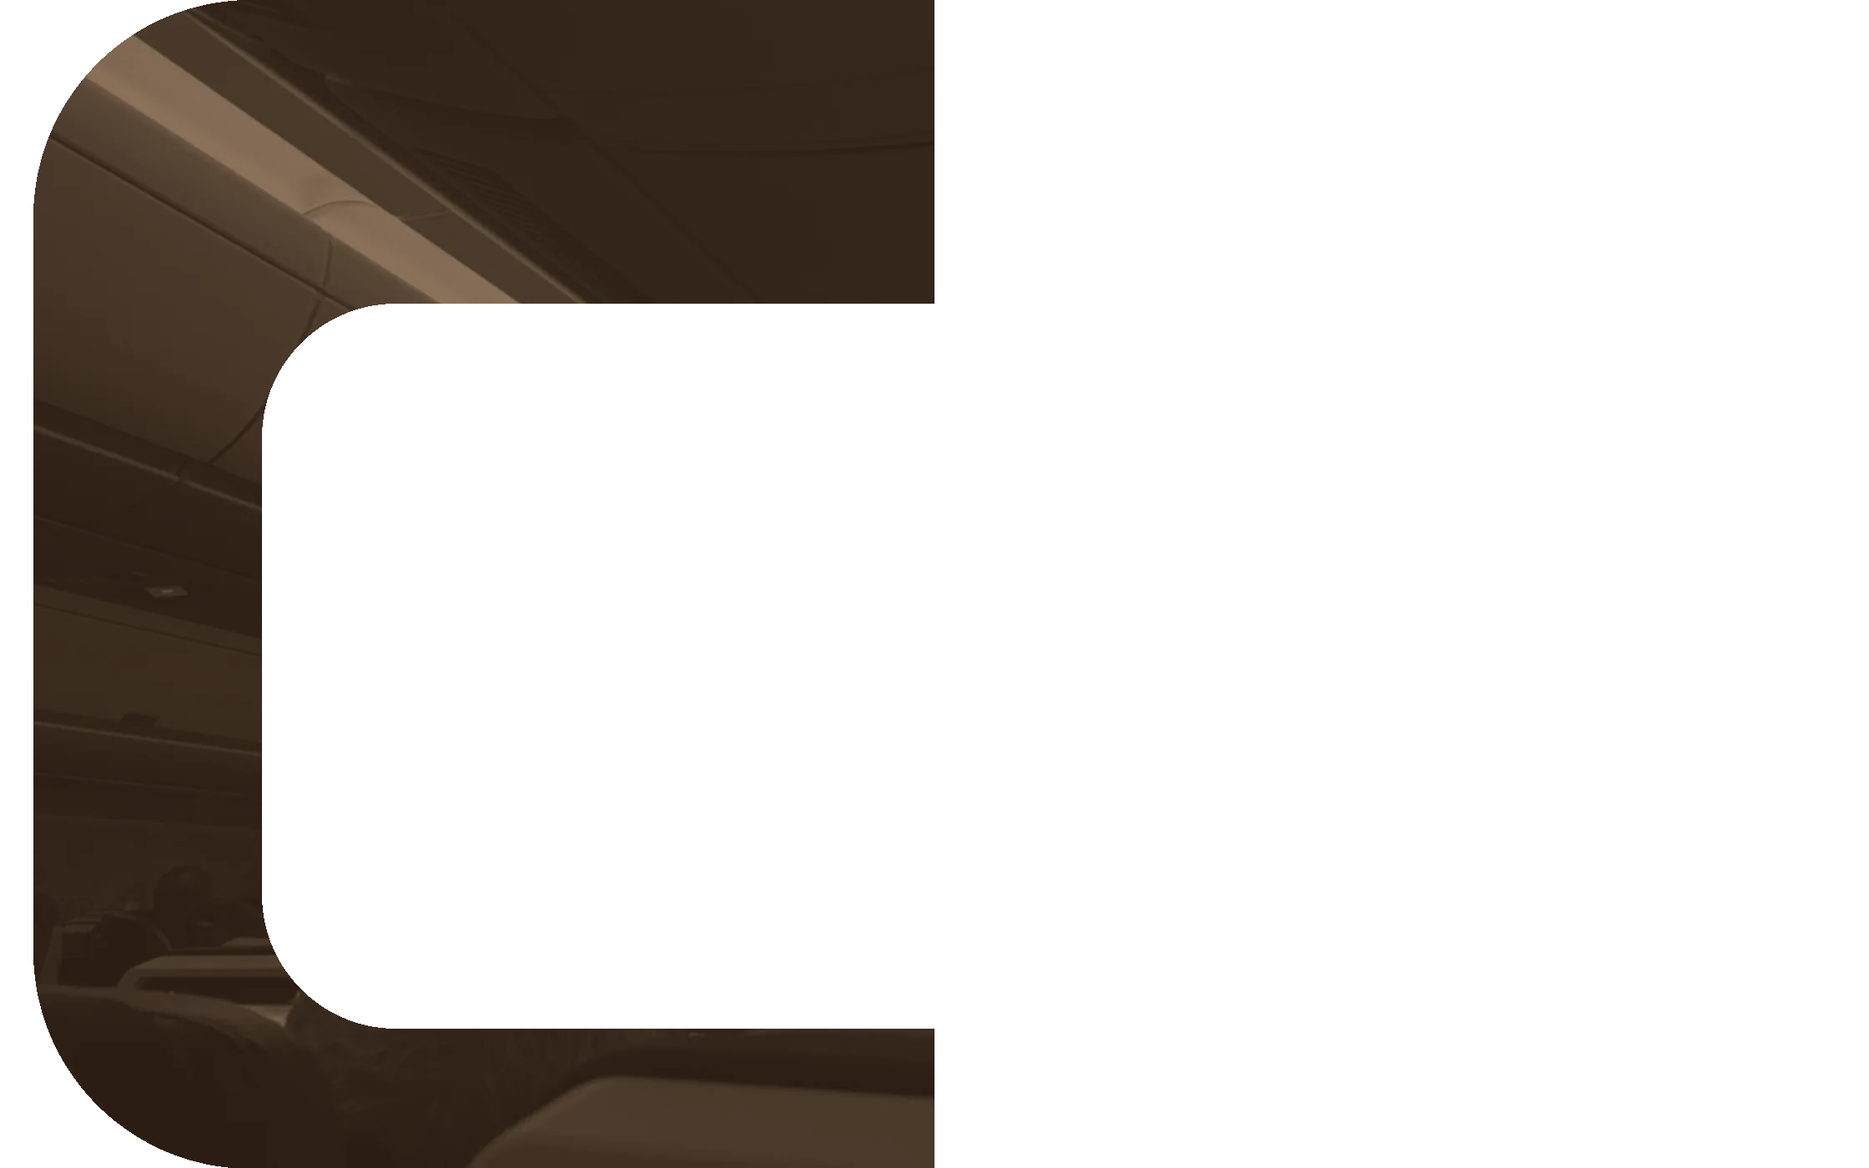
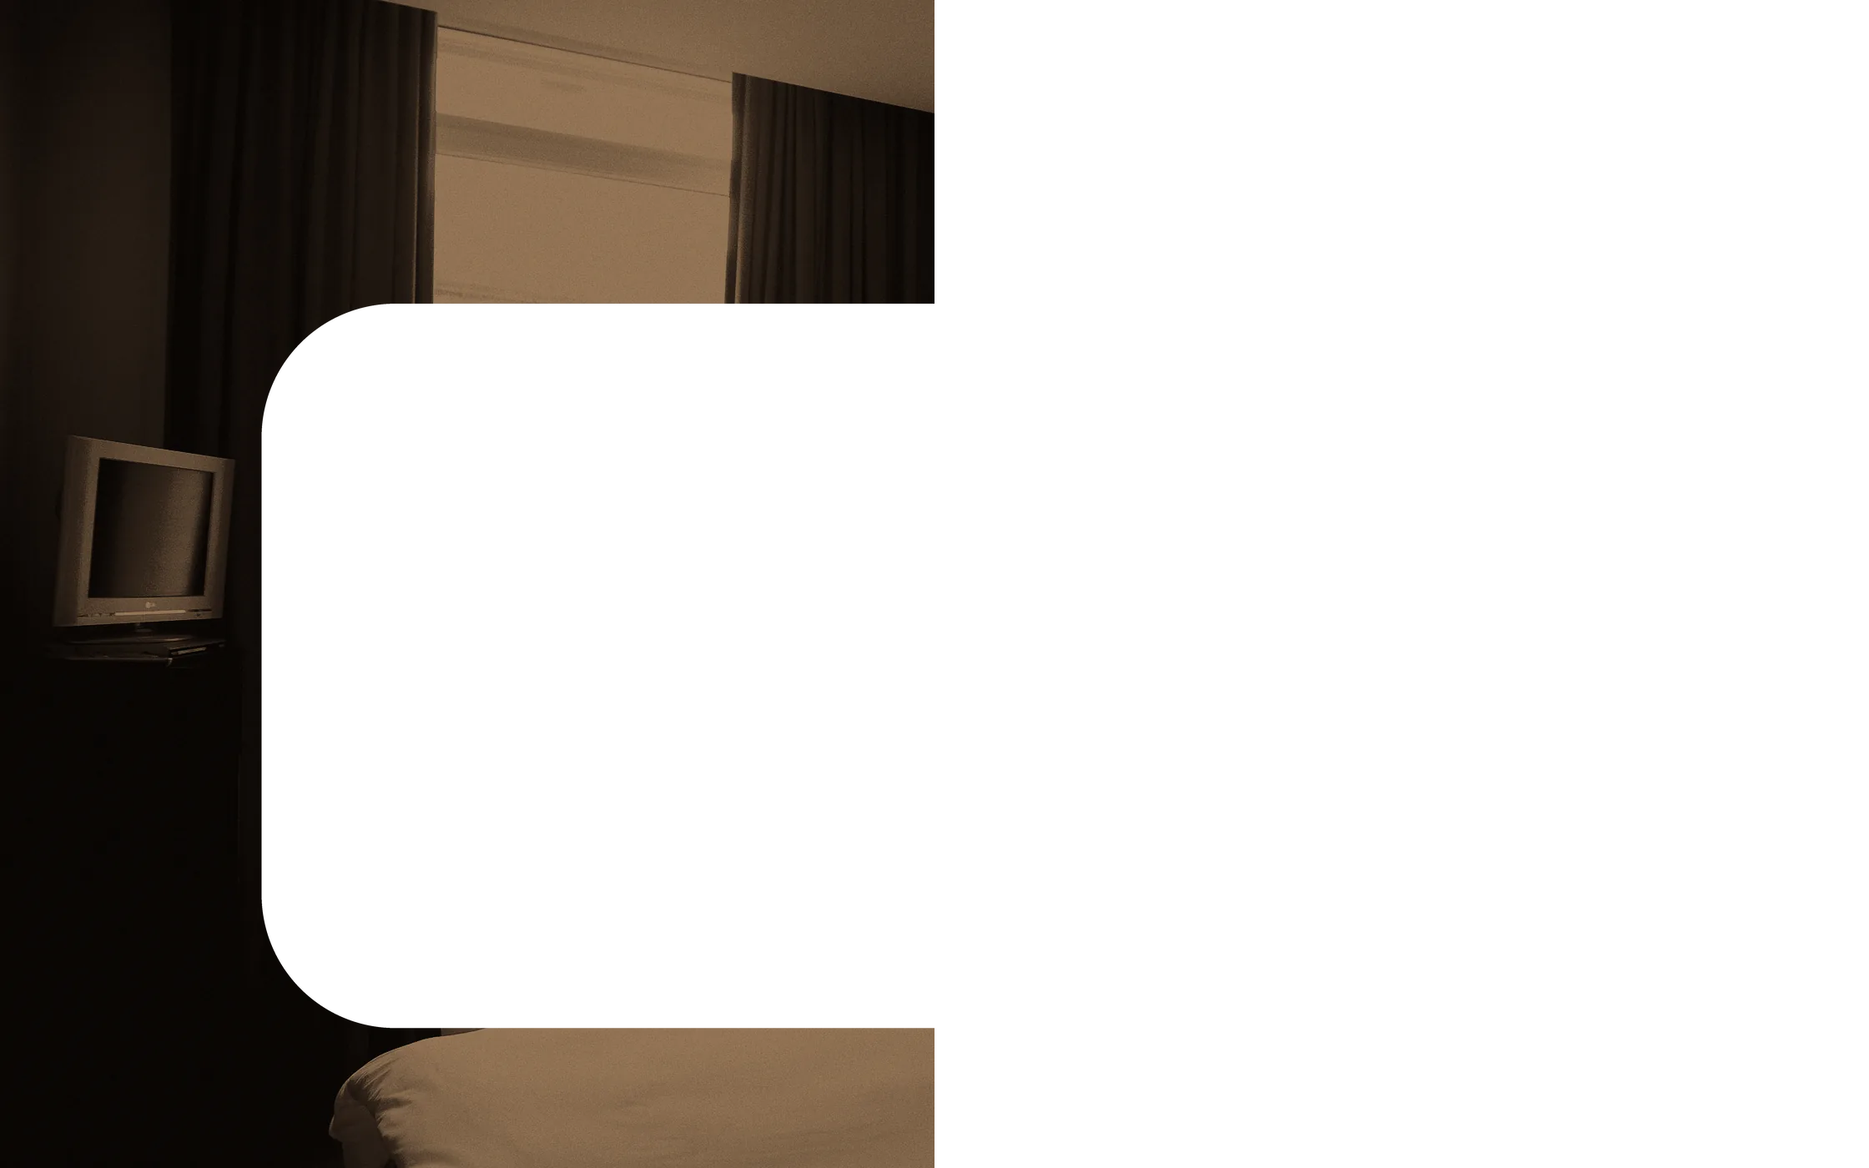
feat: add project brief and content partnership rules documentation; update hero design specifications and image credits

Changed region(s): [[0.0, 0.0, 0.5, 1.0]]

diff --git a/app/components/HeroCinema.vue b/app/components/HeroCinema.vue
@@ -541,7 +541,11 @@ const overviewLabel = `${site.name} overview`
 .intro-copy p em {
   font-style: italic;
   font-weight: 400;
-  color: var(--color-amber-bright);
+  /* Deep amber-brown: the amber tokens sit mid-tone between the cloud tops and their shadows and
+     vanish there (Qie, 2026-09-25). A faint cream halo replaces the lead's dark shadow so the dark
+     text still lifts off the darker folds. */
+  color: color-mix(in oklab, var(--color-amber) 35%, var(--color-ink));
+  text-shadow: 0 1px 14px rgba(246, 239, 225, 0.6);
 }
 
 .hero-tags {

diff --git a/design_handoff_the_upgrade_homepage/PROJECT-BRIEF.md b/design_handoff_the_upgrade_homepage/PROJECT-BRIEF.md
@@ -1,0 +1,129 @@
+# The Upgrade · project brief and handover
+
+**Purpose of this file:** everything decided so far, in one place, so a new Claude project can pick up where this conversation ended. Read this first. The other docs in `theupgrade/` hold the detail.
+
+**Owner:** Qie (Ahmad Baihaqie Mohd Yusri), Axel Nova Ventures, Kuala Lumpur.
+**Last updated:** 25 Sep 2026.
+
+---
+
+## 1. What The Upgrade is
+
+A fortnightly newsletter from Kuala Lumpur about airline and hotel elite status, loyalty strategy and the stays that justify the chase. Free, no affiliate spam. A future product, the **Status Tracker**, tells readers exactly where they stand on each programme and what to do next.
+
+**Tagline:** Status, strategy, and the stays worth the miles.
+**Closing line:** Upgrade on purpose.
+**Angle:** where taste meets strategy. Every issue pairs a numbers-backed verdict with a cinematic stay. Not a deal blog (BolehMiles, Refined Points already do that), not a lifestyle feed (Instagram and TikTok do that better).
+
+**Why a newsletter first:** in this niche the audience comes before the product. Nobody connects their Bonvoy account to an app from a stranger. They subscribe to someone whose judgement they've watched for six months. The newsletter also produces the programme rules data the tracker needs, and it makes Axel Nova credible to hospitality clients.
+
+## 2. Origin and the big decision already made
+
+The project began as **EliteStatus.my**, a loyalty-account aggregator built on AwardWallet's Web Parsing API. That direction was rejected because:
+
+- AwardWallet's API requires passing the user's loyalty username and password to a US third party. That makes "we never store your passwords" a false claim, breaches every programme's T&C, exposes users to account lockout, and creates PDPA cross-border transfer obligations.
+- The intelligence layer ("you need 7 more nights, prioritise Marriott") needs four inputs: current tier, current count, thresholds, upcoming trips. Three are manual entry. The fourth is Gmail. The aggregator was convenience, not capability.
+
+**Locked:** manual entry plus Gmail import, a data-driven and date-versioned rules engine, no credential aggregator. EliteStatus survives only as the internal engine name.
+
+## 3. Every issue, three things
+
+1. **The verdict.** One programme question answered with the maths. "Enrich 2026, explained without the marketing."
+2. **The stay.** One hotel or one cabin, first-person. What status actually got you, what it didn't, would you return on your own money. Must be Qie's own stay and photos.
+3. **Your points.** A reader's balances and a dream, answered with a route, a cabin and a number.
+
+Plus a recurring **"Seen on TikTok"** slot (see content-partnership.md): a partner's post, embedded and credited, with The Upgrade's strategy layer underneath.
+
+Cadence: fortnightly. Metrics that matter: replies, clicks, forwards. Not open rate.
+
+## 4. Brand
+
+- **Name:** The Upgrade. Chosen over the earlier working name Turn Left because Turn Left is airline-coded and half the content is hotels. "Upgrade" is the one payoff both airlines and hotels give elites.
+- **Domain:** theupgrade.my, still to be checked on MYNIC by Qie. Also check theupgrade.com to know the neighbour.
+- **Adjacent brand:** Upgraded Points (US). Different name, same space. Never use the word "Upgraded" in copy.
+- **Logo:** a U that rises into an arrow. One continuous stroke, right arm climbs past the left and ends in an up chevron. Files in `design_handoff_the_upgrade_homepage/logo/` on Qie's Mac: 13 SVGs (mark, badge, horizontal and stacked lockups in every colourway) and badge PNGs at 512, 180, 32. Wordmark is live Satoshi 700 text in the SVGs, to be outlined in Figma before print or avatars.
+- **Design direction (v2, light editorial, implemented):** warm cream paper, ink text, single amber accent, dark bands. Satoshi for display and body, Geist Mono for labels. Full tokens in `design-direction.md` and in the handoff README on Qie's Mac.
+- **Earlier v1 dark direction ("Cabin at dusk")** is superseded. Reference only.
+
+## 5. Stack, locked
+
+| Layer | Pick |
+|---|---|
+| Framework | Nuxt 4, `app/` dir, TypeScript strict |
+| Content | Nuxt Content v3. `issues` collection (markdown) and `programmes` collection (yml with tier thresholds and effective dates) |
+| Styling | Tailwind v4 CSS-first, OKLCH tokens in `@theme`, `@tailwindcss/typography` for prose |
+| Fonts | `@nuxt/fonts`: Satoshi via Fontshare provider, Geist Mono via Google. Self-hosted at build |
+| Motion | GSAP 3.13 + ScrollTrigger + Lenis, homepage only, in `useHomeMotion()`, reduced-motion respected |
+| Images | `@nuxt/image` with IPX at prerender. Own photography |
+| Email | Kit (recommended) or Beehiiv, reached only through `/api/subscribe`. Cloudflare Turnstile on the form |
+| Hosting | Cloudflare Workers with static assets, all routes prerendered except `/api/*` |
+| Analytics | Cloudflare Web Analytics, cookieless |
+| SEO | nuxt-og-image, sitemap, robots, RSS via Nitro route |
+
+Architecture rules: brand in `app/app.config.ts` only; components never call `queryCollection`, all data through composables (`useIssues`, `useProgrammes`, `useSubscribe`); a `scripts/issue-to-email.ts` renders each markdown issue into a branded email and pushes a Kit draft so every issue is written once. The Status Tracker is a separate app later at `app.theupgrade.my`.
+
+**Build phases:**
+1. Scaffold, tokens, fonts, content schema, static homepage. Prompt written: `claude-code-handoff-phase-1.md`. Not yet run.
+2. Motion.
+3. Subscribe route, Turnstile, email provider, article and archive pages, OG images, deploy.
+
+Each phase has a hard stop. Qie handles all git.
+
+**Files on Qie's Mac:** `/Users/BHQIMBP16/Developer/theupgrade/` is the repo root. `design_handoff_the_upgrade_homepage/` holds `README.md` (the design spec), `homepage-mockup-v2.html` (implement this), `homepage-mockup.html` (superseded), `CLAUDE-CODE-PROMPT-PHASE-1.md`, and `logo/`.
+
+## 6. Legal rules, summary
+
+Full reasoning in this conversation's history; the rules that came out of it:
+
+- No credential-based aggregation, ever. Manual entry plus Gmail OAuth only.
+- PDPA as amended (in force 2025): Qie is a data controller. Appoint a DPO and notify the Commissioner, breach notification, data portability, processors carry direct liability. Incorporate a Sdn Bhd but note criminal liability is personal.
+- Gmail restricted scope needs CASA assessment, annual, and Limited Use rules: no training on user email, no human reading of it except narrow cases. Design for synthetic test fixtures.
+- Programme names as text only, no logos or brand colours. Persistent "not affiliated with or endorsed by any loyalty programme" line.
+- Never phrase output as a guarantee of status. "Verify with the programme" in the UI, not only the terms.
+- One paid session with a Malaysian tech lawyer before launch, roughly RM3 to 8k, to review privacy policy, terms and transfer position.
+
+## 7. Monetisation, summary
+
+Detail and milestone reviews in `monetisation-projection.md`. Ranked by trust cost then timing:
+
+1. Axel Nova hospitality clients found through the letter, from day one
+2. Paid strategy sessions, RM300 to 500 an hour, from about 200 subscribers
+3. Selected affiliate (Wise, Airalo, Agoda, lounge access), disclosed inline
+4. Paid tier at 2 to 3k free subscribers, RM15 to 25 a month
+5. Status Tracker subscription when built
+6. Sponsorship only at about 10k engaged
+
+**Irreversible decision:** no comped stays in year one. After that, only as a labelled "Sponsored stay, honest verdict" format with no hotel approval. Written into the About copy as a promise.
+
+## 8. Content partnership
+
+Detail in `content-partnership.md`. Hazman Loka Kirana (TikTok, Malaysian premium hotels) offered photos at RM8 each or free in exchange for vendor promotion. Rules: only his own shoots, written licence, credit, never in "The stay". Split the relationship: The Upgrade licenses photos, Axel Nova refers photography work. He is also an Axel Nova portfolio-site lead. Four questions open before any proposal, starting with whether the photos are his own.
+
+## 9. Open questions, all of them
+
+| Question | Blocks |
+|---|---|
+| theupgrade.my available on MYNIC? | Brand, everything downstream |
+| Kit or Beehiiv? | Phase 3 |
+| Three to five issues drafted? | Launch |
+| Own photography for hero, featured stay, portrait? | Launch |
+| Hazman: photos his own? reach? referral? portfolio site? | Content partnership proposal |
+| Revenue product or brand asset? | Whether Gmail's CASA cost belongs in V1 |
+| Hours per week this may take from client work? | Everything |
+
+## 10. Next actions, in order
+
+1. Check the domain. If taken, decide the fallback before anything else moves.
+2. Ask Hazman the ownership question.
+3. Run phase 1 in Claude Code from the repo root. Review screenshots. Say "phase 2" to get the motion prompt.
+4. Draft three issues in markdown while phase 1 builds.
+5. Decide Kit vs Beehiiv before phase 3.
+6. Book the lawyer session before launch.
+
+---
+
+## Suggested project instructions for the new Claude project
+
+Paste this into the new project's custom instructions, alongside the Axel Nova house rules:
+
+> This project is **The Upgrade**, Qie's own newsletter and future Status Tracker product. Read `PROJECT-BRIEF.md` first in every session. Decisions in it are locked unless Qie reopens them. Default mode is discussion, not production; the same gates apply as the Axel Nova project ("lock it", "mockup first", "handoff prompt", "generate proposal"). Build prompts are one phase at a time with a hard stop. Git is Qie's. The Upgrade's editorial independence is non-negotiable: third-party posts and photos supply the picture and the subject, never the verdict; no comped stays in year one; programme names as text only; never a guarantee of status. Sentence case, no em dashes, direct with Qie, push back early.

diff --git a/design_handoff_the_upgrade_homepage/content-partnership.md b/design_handoff_the_upgrade_homepage/content-partnership.md
@@ -1,0 +1,70 @@
+# The Upgrade · content partnership rules
+
+**Status:** agreed 25 Sep 2026 after first contact with Hazman Loka Kirana (TikTok, Malaysian premium hotel and travel content). Offer on the table: RM8 per photo, or free if The Upgrade promotes his photography and videography services to featured hotels. No proposal sent yet.
+
+## The one rule
+
+Third-party posts supply the picture and the subject. They never supply the verdict. The Upgrade's judgment, maths and recommendation are always Qie's.
+
+## What a supplier's photo can and cannot carry
+
+| Section | Supplier photo allowed | Why |
+|---|---|---|
+| Hero imagery | Yes, credited | Visual only |
+| Archive thumbnails | Yes, credited | Visual only |
+| The verdict | Yes, credited | The maths is Qie's, the photo is illustration |
+| Seen on TikTok slot | Yes, embedded via official TikTok embed | The post is the subject |
+| The stay | **No** | First-person section. The About copy promises the stays are Qie's own. A supplier's photo of a room Qie never slept in breaks that promise |
+| Your points | Rarely needed | Text-led |
+
+## Copyright, plainly
+
+Editing a photo does not transfer copyright. Adding text, grading, cropping: none of it. Under the Copyright Act 1987 the copyright stays with whoever took the photo or commissioned it. Editing someone else's image without permission is itself an infringement. Credit is attribution, not a licence. Once the image is on theupgrade.my, Qie is the publisher and the exposure is his.
+
+| Source | Risk | Action |
+|---|---|---|
+| Photos Hazman shot himself | None | Written licence, pay per batch, credit |
+| Hotel press kit images | Low, but real once the site runs affiliate or sponsorship | Email the hotel's marketing and ask for editorial use. Press kits exist for this and hotels almost always say yes. Every email is also an Axel Nova hospitality lead |
+| Drone or pro shots the hotel commissioned | Medium. A photographer or stock agency may own it. Agencies run automated image matching and send demand letters | Ask the hotel who owns it before use |
+| Reposts from other creators | Not allowed | Never |
+
+Why this matters more than it does for a TikTok account: sponsors and paid-tier partners ask about image rights as standard due diligence, and a demand letter to a business with revenue is a different conversation from one to a hobby account.
+
+## Licence terms to put in writing, one page
+
+- Non-exclusive, perpetual licence to The Upgrade for site, newsletter and social
+- Credit required: "Photo: Hazman Loka" or his preferred form
+- No resale or sublicensing by The Upgrade
+- He warrants he owns each image and holds property or model releases where needed
+- He indemnifies The Upgrade on ownership claims
+- Paid per batch on invoice. RM8 per image as offered, subject to the ownership question
+
+## Writing from his posts
+
+**Bad.** Rewriting his "Top 7 Oceanfront Resorts" into a blog post. Thin, treated as low-value by search, and the verdict is his, which breaks the brand's core promise.
+
+**Good.** A recurring slot, working title **"Seen on TikTok"**. One of his posts, credited and embedded through the official TikTok embed, with The Upgrade's layer underneath: which of those resorts you can book on points, what each costs in Bonvoy or Hilton, which status actually gets the sea-view upgrade. He gets views, The Upgrade gets visuals and a subject, the judgment stays Qie's.
+
+## Two relationships, one line between them
+
+The barter offer, free photos in exchange for promoting his services to featured hotels, mixes editorial with vendor referral. Featured hotels are editorial subjects, not clients. The Upgrade must not recommend a vendor to a hotel it reviews.
+
+Split it:
+
+- **The Upgrade** licenses photos. Small money, credited, editorial untouched.
+- **Axel Nova Ventures** refers photography and videography to Hazman for hospitality clients. A real referral partnership, priced or reciprocal, unrelated to the newsletter's editorial.
+
+Also: he has no website and his portfolio is the TikTok account. That is an Axel Nova Starter or Professional portfolio-site lead. Barter is fine if priced and written down. Never an unpriced favour.
+
+## Cross-promotion
+
+His reach (pinned posts at 166k to 312k views) is worth more than RM8 a photo. His posts credit The Upgrade for the strategy angle, The Upgrade credits him for visuals.
+
+## Open before any proposal
+
+1. Are the photos all his own shoots, or mixed with hotel press kits and reposts? Ask directly: "Bro, gambar semua bro shoot sendiri ke, atau ada yang dari hotel punya press kit?"
+2. Follower count and typical reach.
+3. Is he open to an Axel Nova referral arrangement, separate from the newsletter?
+4. Does he want a portfolio site, and on what terms?
+
+Proposal goes through the normal gate: delivery route and confirmed numbers before anything is written.

diff --git a/public/img/hero/CREDITS.md b/public/img/hero/CREDITS.md
@@ -1,14 +1,14 @@
 # Hero layer credits
 
-Photographs from Wikimedia Commons, composited locally (see docs/superpowers/specs/2026-09-24-cinematic-hero-design.md §7). Replace any file by name with your own photography.
+Photographs from Wikimedia Commons (plus one generated wing), composited locally (see docs/superpowers/specs/2026-09-24-cinematic-hero-design.md §7). Replace any file by name with your own photography.
 
 | File | Source photograph | Author | Licence | Treatment |
 |---|---|---|---|---|
 | `sky.jpg` | [Summer above the clouds (Unsplash).jpg](https://commons.wikimedia.org/wiki/File:Summer_above_the_clouds_(Unsplash).jpg) | Liane Metzler liane | [CC0](http://creativecommons.org/publicdomain/zero/1.0/deed.en) | Full-bleed, centre-cropped to 16:9. |
 | `glow.webp` | [Sunset on plane (Unsplash).jpg](https://commons.wikimedia.org/wiki/File:Sunset_on_plane_(Unsplash).jpg) | Jacky Lo hclojacky | [CC0](http://creativecommons.org/publicdomain/zero/1.0/deed.en) | The sun region, heavily blurred, with a radial alpha; screen-blended by the page. |
 | `horizon.webp` | [Above the Clouds (25254309973).jpg](https://commons.wikimedia.org/wiki/File:Above_the_Clouds_(25254309973).jpg) | Reg Natarajan from Vancouver, Canada | [CC BY 2.0](https://creativecommons.org/licenses/by/2.0) | A 3:1 band from the lower middle, warm-tinted, alpha fade at the top. |
-| `window-left.webp / window-right.webp` | [Air France Airbus A350-900 F-HUVJ economy interior May 2025.jpg](https://commons.wikimedia.org/wiki/File:Air_France_Airbus_A350-900_F-HUVJ_economy_interior_May_2025.jpg) | 4300streetcar | [CC BY 4.0](https://creativecommons.org/licenses/by/4.0) | Desaturated and toned warm brown, filling the window-surround ring; the opening is transparent. |
-| `wing.webp` | [Sunset on plane (Unsplash).jpg](https://commons.wikimedia.org/wiki/File:Sunset_on_plane_(Unsplash).jpg) | Jacky Lo hclojacky | [CC0](http://creativecommons.org/publicdomain/zero/1.0/deed.en) | The wing cut out along a traced polygon, bottom-anchored in a 2140×900 canvas. |
+| `window-left.webp / window-right.webp` | [Hotel bedroom windows (Unsplash).jpg](https://commons.wikimedia.org/wiki/File:Hotel_bedroom_windows_(Unsplash).jpg) | Markus Spiske markusspiske | [CC0](http://creativecommons.org/publicdomain/zero/1.0/deed.en) | Desaturated and toned warm brown, filling the window-surround ring; the opening is transparent. Replaced the Airbus A350 cabin photo on 2026-09-25. |
+| `wing.webp` | Generated image supplied by Qie (ChatGPT, 2026-09-25); source PNG supplied separately | — | Own asset, no attribution required | Alpha taken from the PNG, rotated 15° clockwise and placed on a 2140×900 canvas so the root exits through the bottom edge only (a right-edge cut would show inside the window opening). |
 | `closeup.jpg` | [Thiranagama Sri Lanka Riff Hotel 5-star resort Suite bedroom.jpg](https://commons.wikimedia.org/wiki/File:Thiranagama_Sri_Lanka_Riff_Hotel_5-star_resort_Suite_bedroom.jpg) | Xandrium | [CC0](http://creativecommons.org/publicdomain/zero/1.0/deed.en) | Centre-cropped to 2160×1400. |
 
-The CC BY files (horizon, window surround) require this attribution to travel with the site; the CC0 files carry no obligation but are credited anyway.
+The CC BY file (horizon) requires this attribution to travel with the site; the CC0 files carry no obligation but are credited anyway.

diff --git a/docs/superpowers/specs/2026-09-24-cinematic-hero-design.md b/docs/superpowers/specs/2026-09-24-cinematic-hero-design.md
@@ -135,8 +135,10 @@ hero: {
 
 Fact values are resolved by the component: `issues` → `formatIssueNo(issueCount)` ("007"),
 `programmes` → `String(programmes.length).padStart(2, '0')` ("08"). The three pills read
-`subscribe.meta` ("Free", "Fortnightly", "No affiliate spam"). The intro `em` is italic
-`amber-bright`, matching the site's heading-accent rule.
+`subscribe.meta` ("Free", "Fortnightly", "No affiliate spam"). The intro `em` is italic in a deep amber-brown
+(`color-mix(in oklab, var(--color-amber) 35%, var(--color-ink))`) with a faint cream halo: the amber
+tokens sit mid-tone between the cloud tops and their shadows and lose contrast there (Qie, 2026-09-25;
+previously `amber-bright`).
 
 ## 7. Layers (photographs since 2026-09-25)
 
@@ -147,8 +149,9 @@ opening, wing placement) still holds for the photographic versions. Current file
 (2400×1350, "Summer above the clouds", CC0), `glow.webp` (the sun from "Sunset on plane", blurred,
 radial alpha), `horizon.webp` (2400×800, warm-tinted band from "Above the Clouds", alpha fade at the
 top), `window-left.webp` / `window-right.webp` (the surround ring filled with a desaturated,
-warm-toned Airbus A350 cabin photo, CC BY 4.0), `wing.webp` (2140×900, the wing from "Sunset on
-plane" cut by a traced polygon, bottom-anchored like the source's bridge) and `closeup.jpg`
+warm-toned hotel-bedroom photo, CC0; Qie chose it over the Airbus A350 cabin on 2026-09-25), `wing.webp` (2140×900, a generated wing image supplied by Qie on 2026-09-25,
+rotated 15° clockwise and placed so the root exits through the bottom edge, which keeps its cut
+hidden under the surround) and `closeup.jpg`
 (2160×1400, a resort suite, CC0). Qie's own photography replaces any of them by filename.
 
 ### 7.1 Original placeholder table
